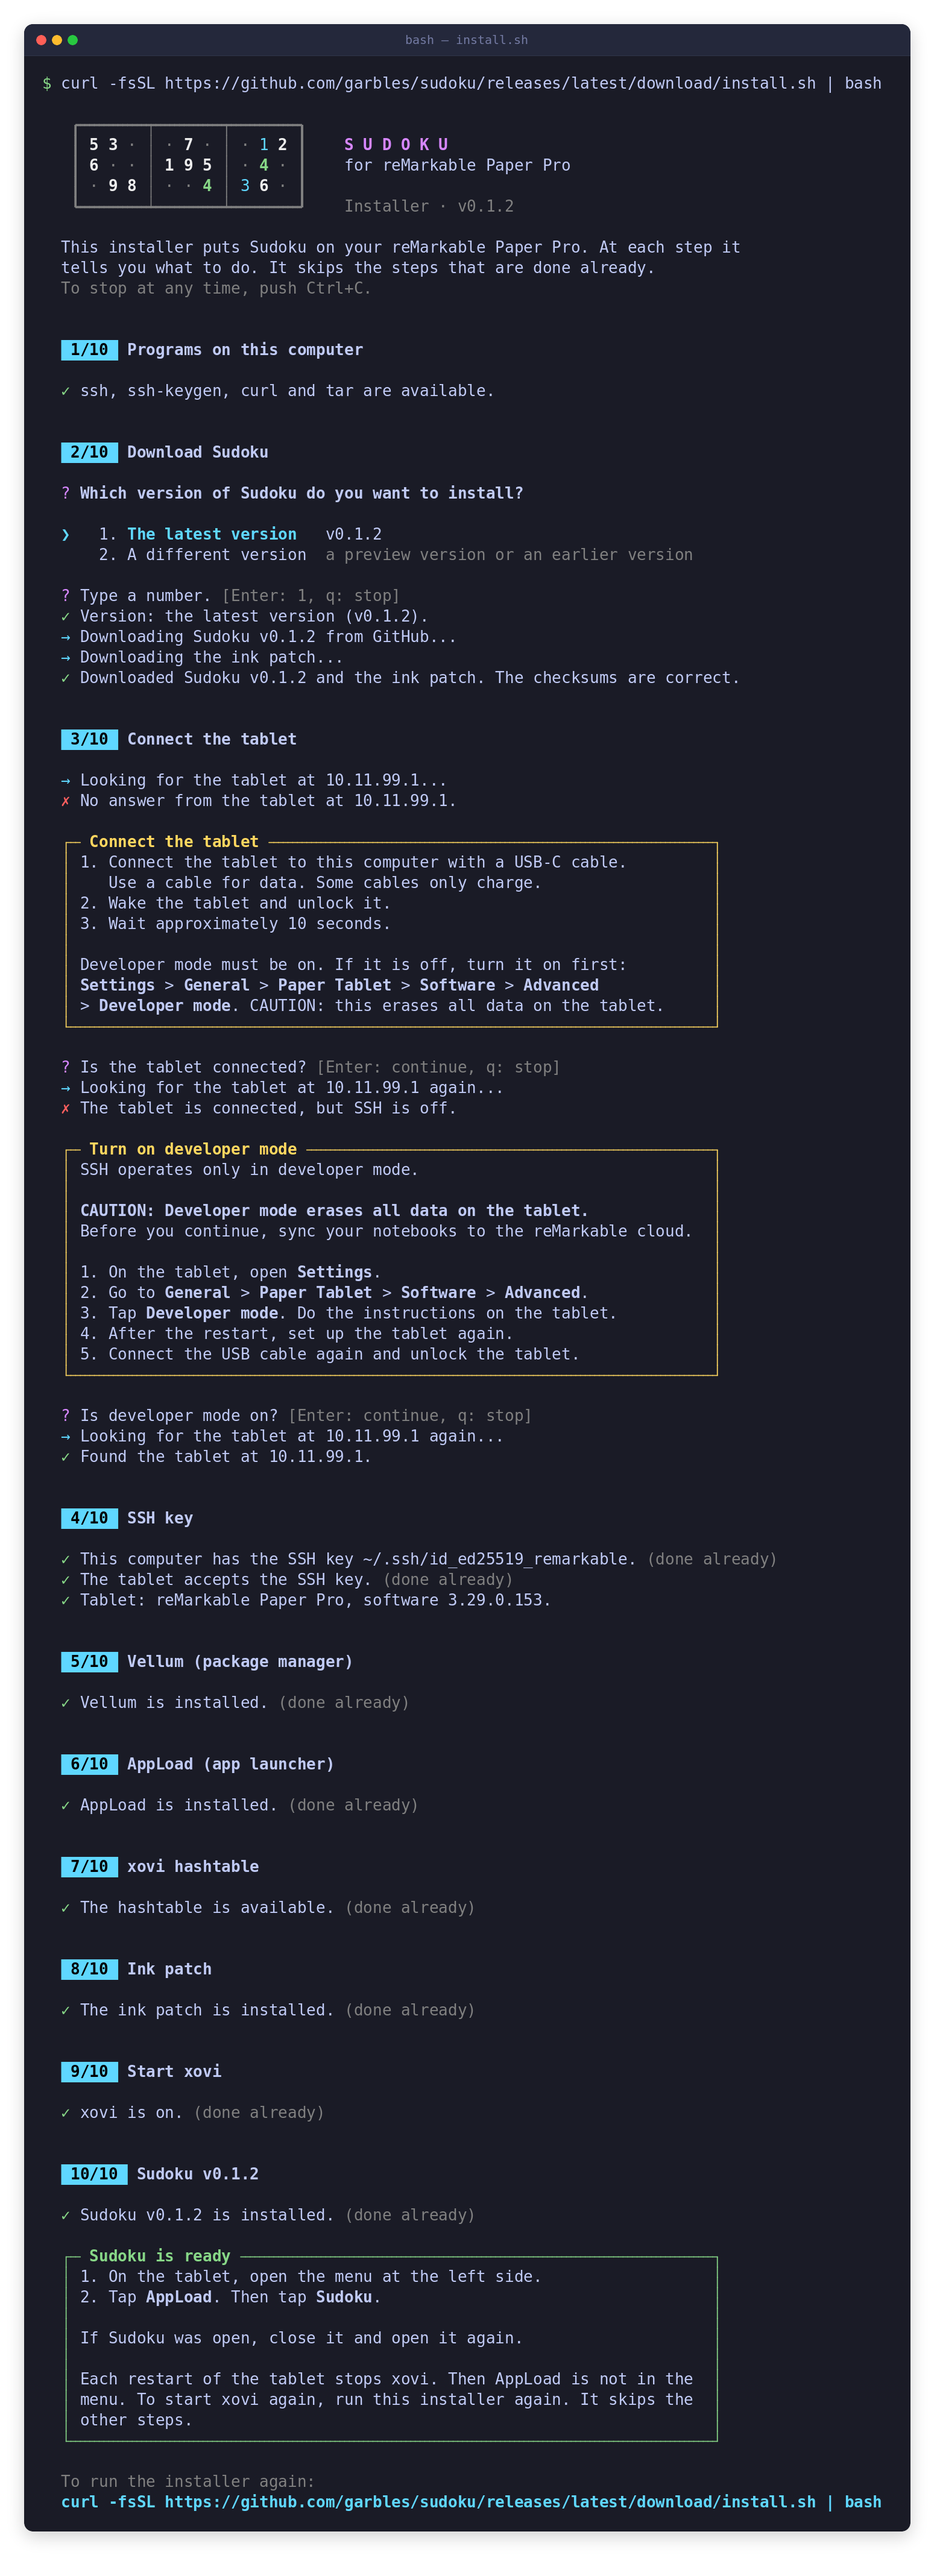
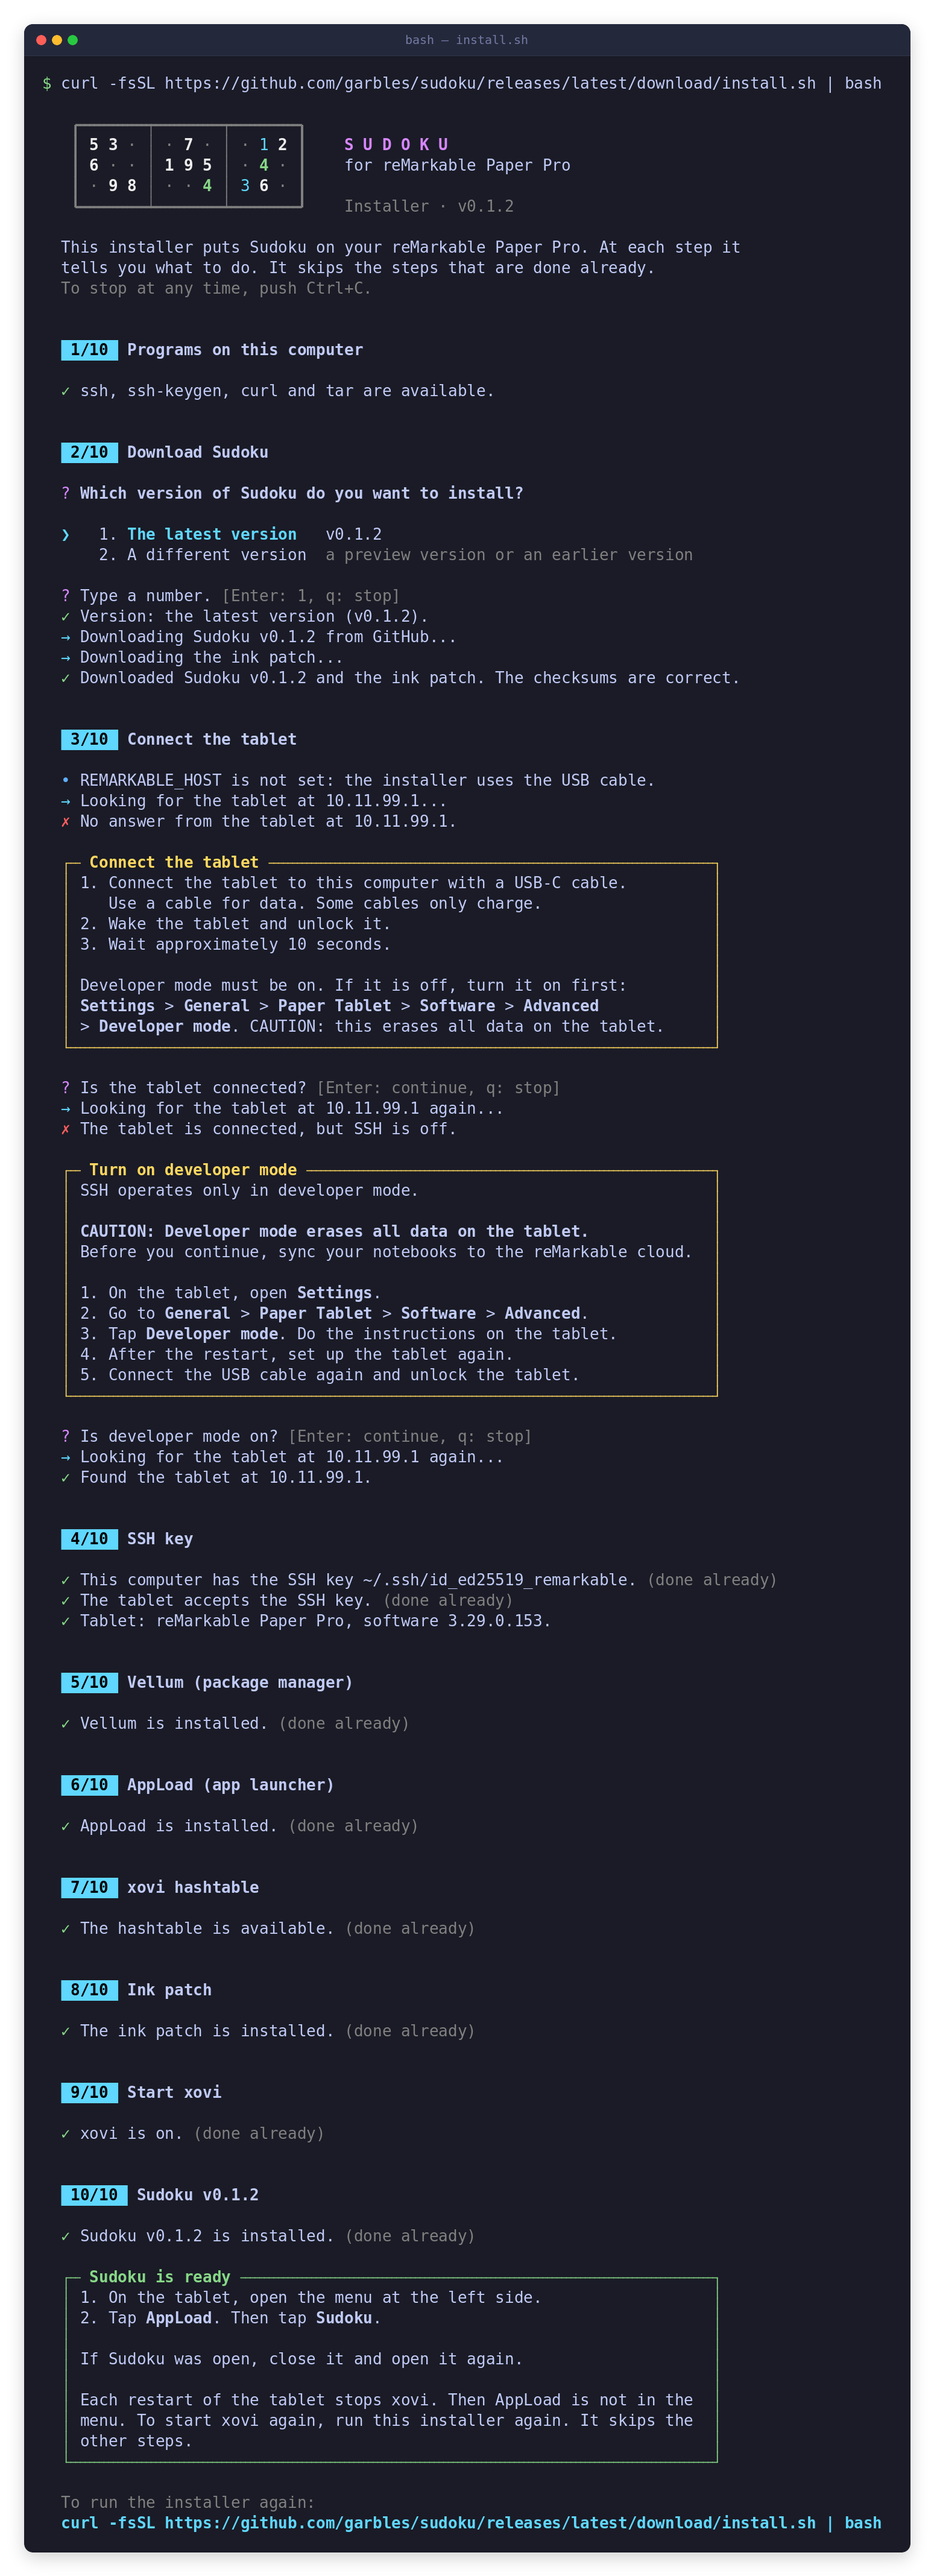
Allow install over wifi

diff --git a/site/index.html b/site/index.html
@@ -279,7 +279,7 @@
       <ul class="notes">
         <li>After a restart of the tablet, AppLoad is not in the menu. Run the installer again to start xovi.</li>
         <li>To install a new version. Sudoku also tells you about new versions in its Settings panel.</li>
-        <li>To use Wi-Fi in place of the USB cable, set <code>REMARKABLE_HOST=&lt;address&gt;</code> before <code>bash</code>.</li>
+        <li>To use Wi-Fi in place of the USB cable, set <code>REMARKABLE_HOST=&lt;address&gt;</code> before <code>bash</code>, or export it before the command. If the tablet does not answer on Wi-Fi, the installer asks if you want to try again or use the USB cable.</li>
         <li>To select the version without the question, set <code>SUDOKU_VERSION=&lt;version&gt;</code> (a name from the <a href="https://github.com/garbles/sudoku/releases">Releases</a> page) before <code>bash</code>.</li>
       </ul>
 

diff --git a/tests/install.rs b/tests/install.rs
@@ -157,6 +157,40 @@ fn bad_patch_checksum_stops_the_installer() {
     assert!(!out.contains("3/10"), "{out}");
 }
 
+/// REMARKABLE_HOST gives a Wi-Fi address. The first connection fails, and the user tries again on
+/// Wi-Fi.
+#[test]
+fn wifi_address_is_used_and_can_be_tried_again() {
+    let (out, code) = run("wifi");
+    assert_eq!(code, 0, "{out}");
+    let s = step(&out, 3);
+    assert_has(&s, "REMARKABLE_HOST is set: the installer connects to 192.168.1.20.");
+    assert_has(&s, "No answer from the tablet at 192.168.1.20.");
+    assert_has(&s, "Connect the tablet on Wi-Fi");
+    assert_has(&s, "Try again on Wi-Fi.");
+    assert_has(&s, "Found the tablet at 192.168.1.20.");
+    assert!(!out.contains("Looking for the tablet at 10.11.99.1"), "{out}");
+}
+
+/// Wi-Fi does not operate. The user selects the USB cable, and the installer continues on USB.
+#[test]
+fn wifi_failure_can_continue_with_the_usb_cable() {
+    let (out, code) = run("wifi-usb");
+    assert_eq!(code, 0, "{out}");
+    let s = step(&out, 3);
+    assert_has(&s, "No answer from the tablet at 192.168.1.20.");
+    assert_has(&s, "The installer uses the USB cable.");
+    assert_has(&s, "Found the tablet at 10.11.99.1.");
+}
+
+/// Without REMARKABLE_HOST, the installer tells that it uses the USB cable.
+#[test]
+fn usb_is_the_default() {
+    let (out, _) = run("again");
+    assert_has(&step(&out, 3), "REMARKABLE_HOST is not set: the installer uses the USB cable.");
+    assert_has(&step(&out, 3), "Found the tablet at 10.11.99.1.");
+}
+
 #[test]
 fn incorrect_password_gives_help_and_a_new_try() {
     let (out, code) = run("password");
@@ -288,7 +322,7 @@ fn arrow_keys_select_a_version_in_a_terminal() {
 /// All boxes have the same width, and no line is wider than the 90 columns of the screenshots.
 #[test]
 fn output_fits_the_terminal() {
-    for scenario in ["first", "connect", "password", "hostkey", "offline", "download", "stop", "other", "patch", "stamp", "missing", "select", "typed"] {
+    for scenario in ["first", "connect", "password", "hostkey", "offline", "download", "stop", "other", "patch", "stamp", "missing", "select", "typed", "wifi", "wifi-usb"] {
         let (out, _) = run(scenario);
         for line in out.lines() {
             let width = line.chars().count();

diff --git a/REQUIREMENTS.md b/REQUIREMENTS.md
@@ -1067,7 +1067,7 @@ The steps:
 |---|---|---|
 | 1. Programs | `ssh`, `ssh-keygen`, `curl`, `tar` and `sha256sum` or `shasum` | If a program is missing, the installer tells how to install it and stops. |
 | 2. Download | – | Asks for the version (or uses `SUDOKU_VERSION`). For a version that is not the latest, downloads `version.json` of that release. Downloads `sudoku-<version>.tar.gz` and the ink patch `sudoku-penregion.qmd` of the release, and compares their SHA-256 checksums. If a checksum is not correct, the installer stops. A release with no `patch_sha256` has no separate patch: then step 8 does nothing. |
-| 3. Connection | SSH to `10.11.99.1` (or `REMARKABLE_HOST`) | No answer: instructions for the USB cable. Connection refused: instructions for developer mode (with the caution that it erases the tablet). Changed host key: the installer removes the old key after a confirmation. |
+| 3. Connection | SSH to `REMARKABLE_HOST` if it is set, else to `10.11.99.1` (the USB cable). The installer tells which of the two it uses | No answer on USB: instructions for the USB cable. No answer on Wi-Fi (`REMARKABLE_HOST`): instructions for Wi-Fi, then a menu: "Try again" (Wi-Fi again) or "Use the USB cable" (the installer continues with `10.11.99.1`). Connection refused: instructions for developer mode (with the caution that it erases the tablet). Changed host key: the installer removes the old key after a confirmation. |
 | 4. SSH key | `~/.ssh/id_ed25519_remarkable`, and the tablet accepts it | Makes the key (ed25519, no passphrase). Adds it to `/home/root/.ssh/authorized_keys`, with a different key of the computer or with the root password. The installer tells where the password is (Settings > General > Help > About > Copyrights and licenses). Shows the tablet model and software version. A tablet that is not a Paper Pro needs a confirmation. |
 | 5. Vellum | `/home/root/.vellum/bin/vellum` | Examines the internet connection of the tablet (instructions for Wi-Fi). Downloads the latest Vellum bootstrap script on the computer (curl examines the TLS certificate) and runs it on the tablet. The installer keeps no checksum of this script, because each Vellum release changes it. |
 | 6. AppLoad | `/home/root/xovi/extensions.d/appload.so` | `vellum update`, then `vellum add appload`. |

diff --git a/README.md b/README.md
@@ -77,7 +77,10 @@ The installer skips each step that is done. Thus you can run it again at all tim
 - To install a new version. (Sudoku also tells you about new versions in its Settings panel.)
 
 To use Wi-Fi in place of the USB cable, set the address of the tablet:
-`curl -fsSL .../install.sh | REMARKABLE_HOST=192.168.1.20 bash`.
+`curl -fsSL .../install.sh | REMARKABLE_HOST=192.168.1.20 bash`, or
+`export REMARKABLE_HOST=192.168.1.20` before the command. The variable must be in the environment of
+`bash`: a variable that is not exported, or that is set only before `curl`, has no effect. If the
+tablet does not answer on Wi-Fi, the installer asks if you want to try again or use the USB cable.
 
 To select the version without the question, set its name from the
 [Releases](https://github.com/garbles/sudoku/releases) page:
